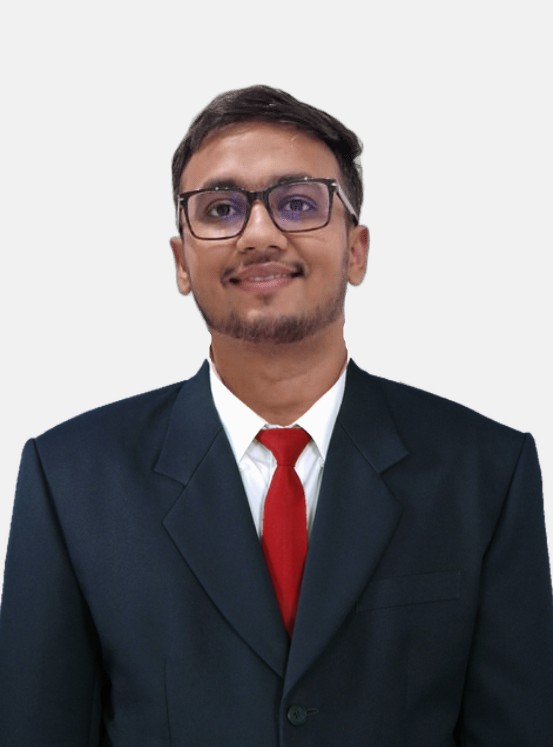
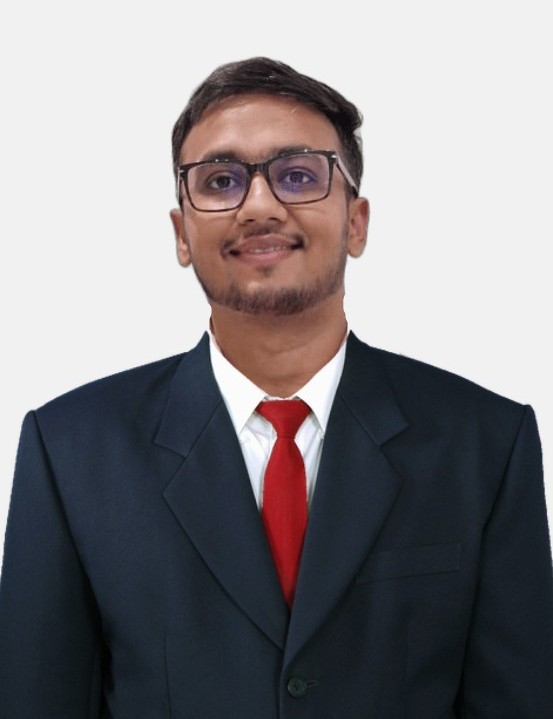
feat: add new images and remove copyright footers across site pages

diff --git a/product.html b/product.html
@@ -152,10 +152,10 @@
 
         <!-- LEFT SIDE -->
         <div class="product-images product-card" data-aos="fade-up">
-          <img id="mainImage" class="main-image" src="img/aluminum_tube.png" onclick="openPopup(this.src)">
+          <img id="mainImage" class="main-image" src="img/amee_tubes.png" onclick="openPopup(this.src)">
 
           <div class="thumbnail-row">
-            <img src="img/aluminum_tube.png" onclick="changeImage(this.src)" alt="Aluminium Tubes view 1">
+            <img src="img/amee_tubes.png" onclick="changeImage(this.src)" alt="Aluminium Tubes view 1">
             <img src="img/prd1.png" onclick="changeImage(this.src)" alt="Aluminium Tubes view 2">
             <img src="img/bnr1.jpg" onclick="changeImage(this.src)" alt="Aluminium Tubes view 3">
             <img src="img/bnr2.jpg" onclick="changeImage(this.src)" alt="Aluminium Tubes view 4">
@@ -495,11 +495,7 @@
               <div class="left-text">
                 <a href="#">Created by Amee Extrusion LLP</a>
               </div>
-              <div class="right-text">
-                <div class="copyright-text">
-                  Copyright © Amee Extrusion LLP 2026. All rights reserved.
-                </div>
-              </div>
+
             </div>
           </div>
         </div>

diff --git a/contact.html b/contact.html
@@ -369,11 +369,7 @@
               <div class="left-text">
                 <a href="#">Created by Amee Extrusion LLP</a>
               </div>
-              <div class="right-text">
-                <div class="copyright-text">
-                  Copyright © Amee Extrusion LLP 2026. All rights reserved.
-                </div>
-              </div>
+
             </div>
           </div>
         </div>

diff --git a/index.html b/index.html
@@ -512,11 +512,7 @@
                             <div class="left-text">
                                 <a href="#">Created by Amee Extrusion LLP</a>
                             </div>
-                            <div class="right-text">
-                                <div class="copyright-text">
-                                    Copyright © Amee Extrusion LLP 2026. All rights reserved.
-                                </div>
-                            </div>
+
                         </div>
                     </div>
                 </div>

diff --git a/team.html b/team.html
@@ -346,11 +346,7 @@
               <div class="left-text">
                 <a href="#">Created by Amee Extrusion LLP</a>
               </div>
-              <div class="right-text">
-                <div class="copyright-text">
-                  Copyright © Amee Extrusion LLP 2026. All rights reserved.
-                </div>
-              </div>
+
             </div>
           </div>
         </div>

diff --git a/about.html b/about.html
@@ -169,7 +169,7 @@
                 <div class="about-l">
                     <div class="about-ln" data-aos="fade-up">
                         <div class="about-img">
-                            <img src="https://243745664.fs1.hubspotusercontent-na2.net/hubfs/243745664/bnr2.jpg" />
+                            <img src="img/amee_tubes.png" />
                         </div>
                     </div>
                 </div>